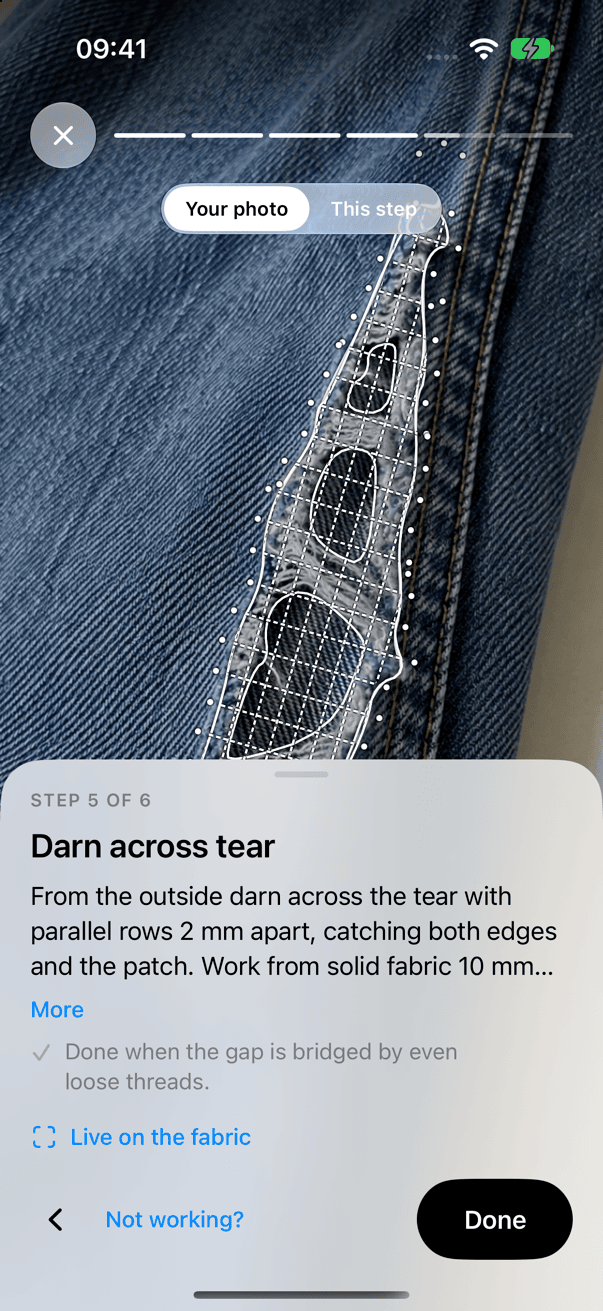
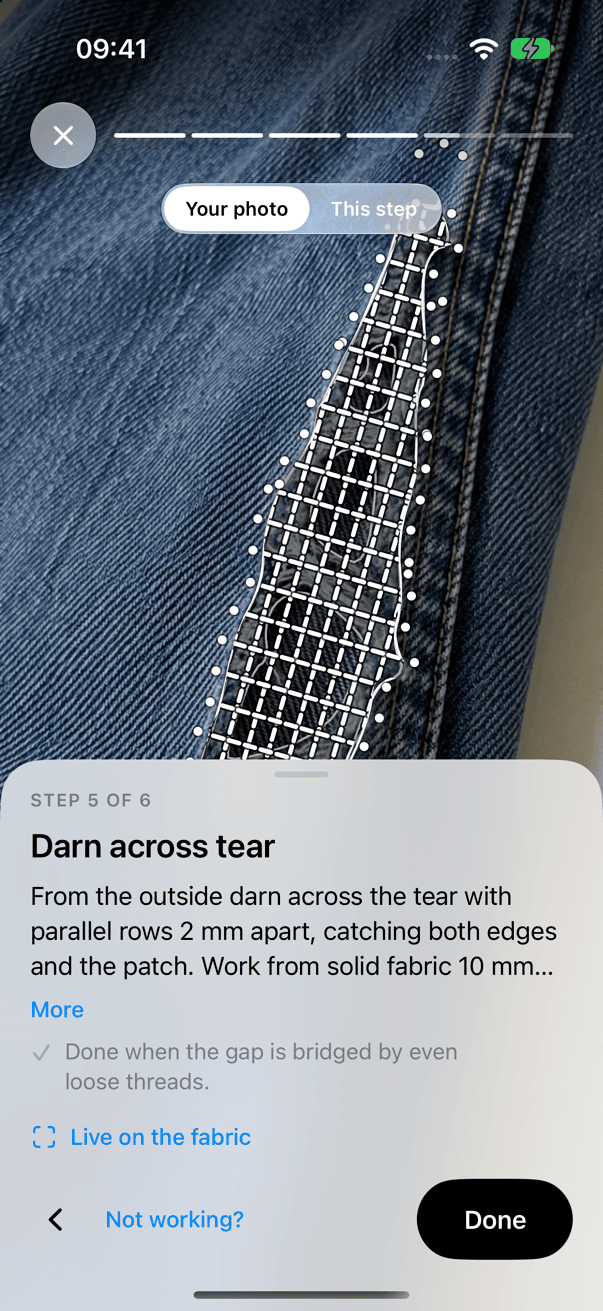
ios: Näh-Overlay deutlich sichtbar (längere, dickere Stiche mit dunkler Kontur, abgedunkelte Schadstelle, größere Einstichpunkte)

Changed region(s): [[0.2985, 0.1526, 0.7761, 0.5797], [0.6866, 0.0915, 0.7761, 0.122]]

diff --git a/ios/RepairAssistant/Rendering/StitchPathView.swift b/ios/RepairAssistant/Rendering/StitchPathView.swift
@@ -200,7 +200,7 @@ struct StitchPathView: View {
 
     // MARK: Crafted stitch diagram
 
-    private let stitchLen: CGFloat = 3, stitchGap: CGFloat = 2
+    private let stitchLen: CGFloat = 7, stitchGap: CGFloat = 4  // owner: 3/2 pt read as noise on knit
 
     private func maskPath(_ size: CGSize) -> Path? {
         guard !plan.mask.isEmpty else { return nil }
@@ -213,13 +213,13 @@ struct StitchPathView: View {
 
     /// Dark under-stroke plus white thread, both dashed.
     private func strokeDashed(_ ctx: inout GraphicsContext, _ path: Path, phase: CGFloat, dash: [CGFloat]) {
-        ctx.stroke(path, with: .color(.black.opacity(0.6)), style: StrokeStyle(lineWidth: 3.0, lineCap: .butt, dash: dash, dashPhase: phase))
-        ctx.stroke(path, with: .color(.white), style: StrokeStyle(lineWidth: 1.5, lineCap: .butt, dash: dash, dashPhase: phase))
+        ctx.stroke(path, with: .color(.black.opacity(0.7)), style: StrokeStyle(lineWidth: 5.5, lineCap: .round, dash: dash, dashPhase: phase))
+        ctx.stroke(path, with: .color(.white), style: StrokeStyle(lineWidth: 3, lineCap: .round, dash: dash, dashPhase: phase))
     }
 
     /// Entry / exit point of a row: tiny white dot with a dark rim.
     private func drawDot(_ ctx: inout GraphicsContext, _ p: CGPoint) {
-        let r: CGFloat = 2.0
+        let r: CGFloat = 3.0
         ctx.fill(Path(ellipseIn: CGRect(x: p.x - r - 1, y: p.y - r - 1, width: (r + 1) * 2, height: (r + 1) * 2)), with: .color(.black.opacity(0.45)))
         ctx.fill(Path(ellipseIn: CGRect(x: p.x - r, y: p.y - r, width: r * 2, height: r * 2)), with: .color(.white))
     }
@@ -262,6 +262,8 @@ struct StitchPathView: View {
         let activeIdx = progress >= 1 ? animated.lowerBound + animated.count / 2 : animated.lowerBound + shown - 1
         let rowProgress = progress >= 1 ? 1 : (progress * Double(animated.count)) - Double(shown - 1)
         let dash = [stitchLen, stitchGap]
+        // Darken the damage area behind the stitches so white thread reads on light and busy fabric.
+        if let m = maskPath(size) { ctx.fill(m, with: .color(.black.opacity(0.35)), style: FillStyle(eoFill: true)) }
         ctx.drawLayer { l in
             if let m = maskPath(size) { l.clip(to: m, style: FillStyle(eoFill: true)) }
             for i in staticRows {
@@ -303,8 +305,8 @@ struct StitchPathView: View {
             guard i < shown else { continue }
             let f: CGFloat = (i == shown - 1 && progress < 1) ? CGFloat(min(1, max(0.1, progress * Double(legs) - Double(i)))) : 1
             var p = Path(); p.move(to: s); p.addLine(to: lerp(s, e, f))
-            ctx.stroke(p, with: .color(.black.opacity(0.6)), style: StrokeStyle(lineWidth: 3.2, lineCap: .round))
-            ctx.stroke(p, with: .color(.white), style: StrokeStyle(lineWidth: 1.7, lineCap: .round))
+            ctx.stroke(p, with: .color(.black.opacity(0.7)), style: StrokeStyle(lineWidth: 5.5, lineCap: .round))
+            ctx.stroke(p, with: .color(.white), style: StrokeStyle(lineWidth: 3, lineCap: .round))
         }
         if progress < 1 {
             let ai = min(legs - 1, shown - 1)
